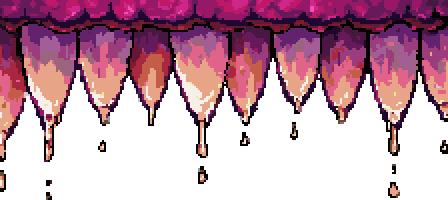
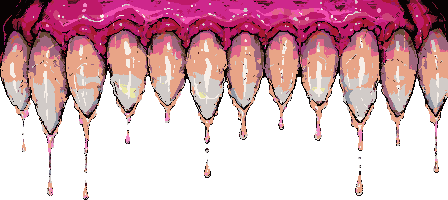
feat: redraw the backdrop one picture pixel to a screen pixel

diff --git a/project/levels/monster_mouth_escape/art/README.md b/project/levels/monster_mouth_escape/art/README.md
@@ -8,26 +8,28 @@ The runtime art set for the monster-mouth escape game and how to draw it.
 
 - Godot imports every file here, and each PNG's `.import` file is committed beside it. `src/rendering/` draws the world, the characters and the kitchen from this folder, and on the map the item icons (`icons/`) and the full heart from `ui/`. `src/hud/` draws the hearts and the day and clock icons from `ui/`, the item icons and the title art (`title/`) from it, and draws its panels and buttons in code.
 - Folders: `backgrounds/`, `characters/`, `world/`, `walkway/`, `ground/`, `decor/`, `icons/`, `workshop/`, `ui/`, `title/`.
-- The map grid is 36×16 cells of 32 px in a 1280×720 scene, which the city's camera shows at twice its size or between once and twice for two players; the backdrop layers and the interface are drawn at their own size on the screen. Tiles are one cell wide but `building_wall.png`, which is 64 px wide; `walkway/deck.png`, `platform.png` and `bridge.png` repeat horizontally, the supports vertically, and `building_wall.png` in both directions without a seam.
+- The map grid is 36×16 cells of 32 px in a 1280×720 scene, which the city's camera shows at twice its size, or at its own size for two players who do not fit at twice; the backdrop layers, the sea in the scene, the teeth and the interface are drawn at their own size on the screen at every zoom. Tiles are one cell wide but `building_wall.png`, which is 64 px wide; `walkway/deck.png`, `platform.png` and `bridge.png` repeat horizontally, the supports vertically, and `building_wall.png` in both directions without a seam.
 - Every PNG is drawn at 1:1 pixels of its layer: the scene's for the world and characters, the screen's for the backdrop and the interface. Scale 2 or 4 means the art is drawn on a 2×2 or 4×4 pixel grid; draw it at its listed size, not enlarged again. Sample with nearest filtering.
+- [ADR 0017](../../../../docs/architecture/adr/0017-draw-every-picture-one-pixel-to-a-screen-pixel-at-the-close-camera.md) sets one density, one picture pixel to a screen pixel at the default camera. `backgrounds/` is drawn so, at scale 1. The other folders keep their scale until their stage redraws them at twice the scene's resolution: 64 px a cell, 128×128 character frames.
 - Every pixel is fully opaque or fully clear.
 - No image contains text except `title/logo.png`. The engine draws every word and number.
 
 ## Clean-art rules
 
-Every PNG keeps these, and `pixelize.py check` measures them on the art's own pixel grid:
+Every PNG keeps these, and `pixelize.py check` measures them on the art's own pixel grid, and the one about screen pixels on the PNG's own pixels:
 
 - Clusters, not noise: at most 1% of an image's opaque pixels are lone, sharing their colour with none of their eight neighbours. `pixelize.py process` merges lone pixels into the colour around them and keeps only the few that contrast most, such as an eye.
 - Colours, by folder: at most 16 in `characters/`; 12 in `world/`, `walkway/`, `ground/`, `decor/`, `icons/` and `ui/`; 32 in `backgrounds/`, `workshop/` and `title/`, but 16 for the logo.
+- One picture pixel to a screen pixel in `backgrounds/`: at least 10% of the pixels that differ from a neighbour along a row, and along a column, differ from both, so stand one pixel wide or tall. Art drawn in blocks of two or more pixels has none.
 - One outline rule for the world and character sprites (`characters/`, `world/`, `walkway/`, `ground/`, `decor/`): a selective outline lit from above. An edge facing up shows its surface colour without a dark line; every other edge facing clear space takes a darker colour of the sprite's own, so at least 95% of them are no lighter than the pixel inside them. The icons keep their one-pixel dark outline.
 - One light, from above, for the same sprites: what faces up is on average no darker than what faces down. Light from above survives the runtime mirroring of a character.
 
 ## Layers
 
 - `backgrounds/throat.png` (1280×720, opaque) is the back layer: the fleshy palate, without fangs, over the pink throat and its uvula.
-- `backgrounds/city.png` (1280×480) is the middle layer: a swallowed city of tilted towers sunk in flesh, with an elevated railway and a train skewered into the flesh, clear above the skyline. Draw it behind the walkways with its bottom edge below the acid surface, so the acid covers its base.
-- `backgrounds/jaw.png` (448×200, scale 2) is the teeth layer: the monster's upper teeth hanging from a gum along its top edge, clear below. Draw it along the top of the screen at scale 2 on the scene's pixel grid, in front of the backdrop and behind the walkways: its fangs, cut at the gaps between them, one by one in a varied order under its gum.
-- `backgrounds/acid.png` (1280×492) is the acid, both the band nearest behind the map and the sea in the scene. Its surface is near the top edge: move the layer so that edge follows the acid level, and fill any screen area below it with its bottom row.
+- `backgrounds/city.png` (1008×496) is the middle layer: a swallowed city of tilted towers sunk in flesh, with an elevated railway and a train skewered into the flesh, clear above the skyline. Draw it behind the walkways with its bottom edge below the acid surface, so the acid covers its base.
+- `backgrounds/jaw.png` (448×200) is the teeth layer: the monster's upper teeth hanging from a gum along its top edge, clear below. Draw it along the top of the screen at its own size on whole screen pixels, in front of the backdrop and behind the walkways: its fangs, cut at the gaps between them, one by one in a varied order under its gum.
+- `backgrounds/acid.png` (1280×492) is the acid, both the band nearest behind the map and the sea in the scene, each drawn at its own size on the screen. Its surface is near the top edge: move the layer so that edge follows the acid level, and fill any screen area below it with its bottom row.
 - The throat, the city and the acid are not tiles; drawn beside a mirrored copy, each meets it without a seam. The teeth layer is never mirrored: the screen cuts it into its fangs and a band of its gum.
 - `glow.tres` is the blend-add material of the layer that adds light over the scene.
 
